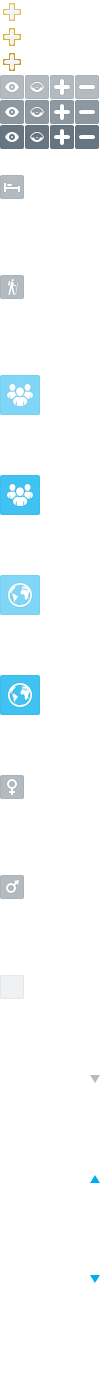
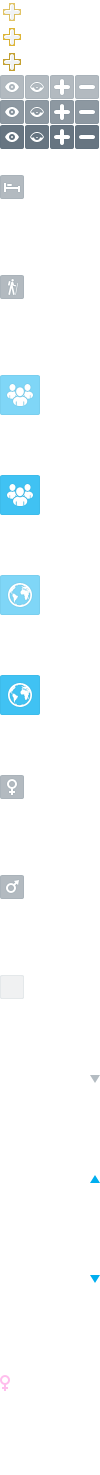
Issue #2686 comment 18

diff --git a/sites/all/themes/airtribune2/css/global.styles.css b/sites/all/themes/airtribune2/css/global.styles.css
@@ -3474,6 +3474,8 @@ table tr td.:first-child { border-left: none;}
 .page-event-pilots td.views-field-field-pg-contestant-status { width: 161px;}
 .page-event-pilots td.views-field-field-paraglider-model { width: 86px; text-align: center;}
 .page-event-pilots td.views-field-field-sponsors { width: 116px; text-align: center;}
+.page-event-pilots td.views-field-field-full-name span { display: inline-block; width: 10px; height: 16px; background: url(../images/table_action.png) no-repeat 0 -10000px; margin-left: 9px; position: relative; top: 4px;}
+.page-event-pilots td.views-field-field-full-name span.gender-1 { background-position: 0 -1375px}
 
 .views-field-field-pg-contestant-status span { background: url(../images/pilot_statuses.png) no-repeat 0 -10000px; display: inline-block;; padding:0 0 1px 20px;}
 .views-field-field-pg-contestant-status span.Waiting-list { background-position: 0 -99px; color: #c1c7cc;}
